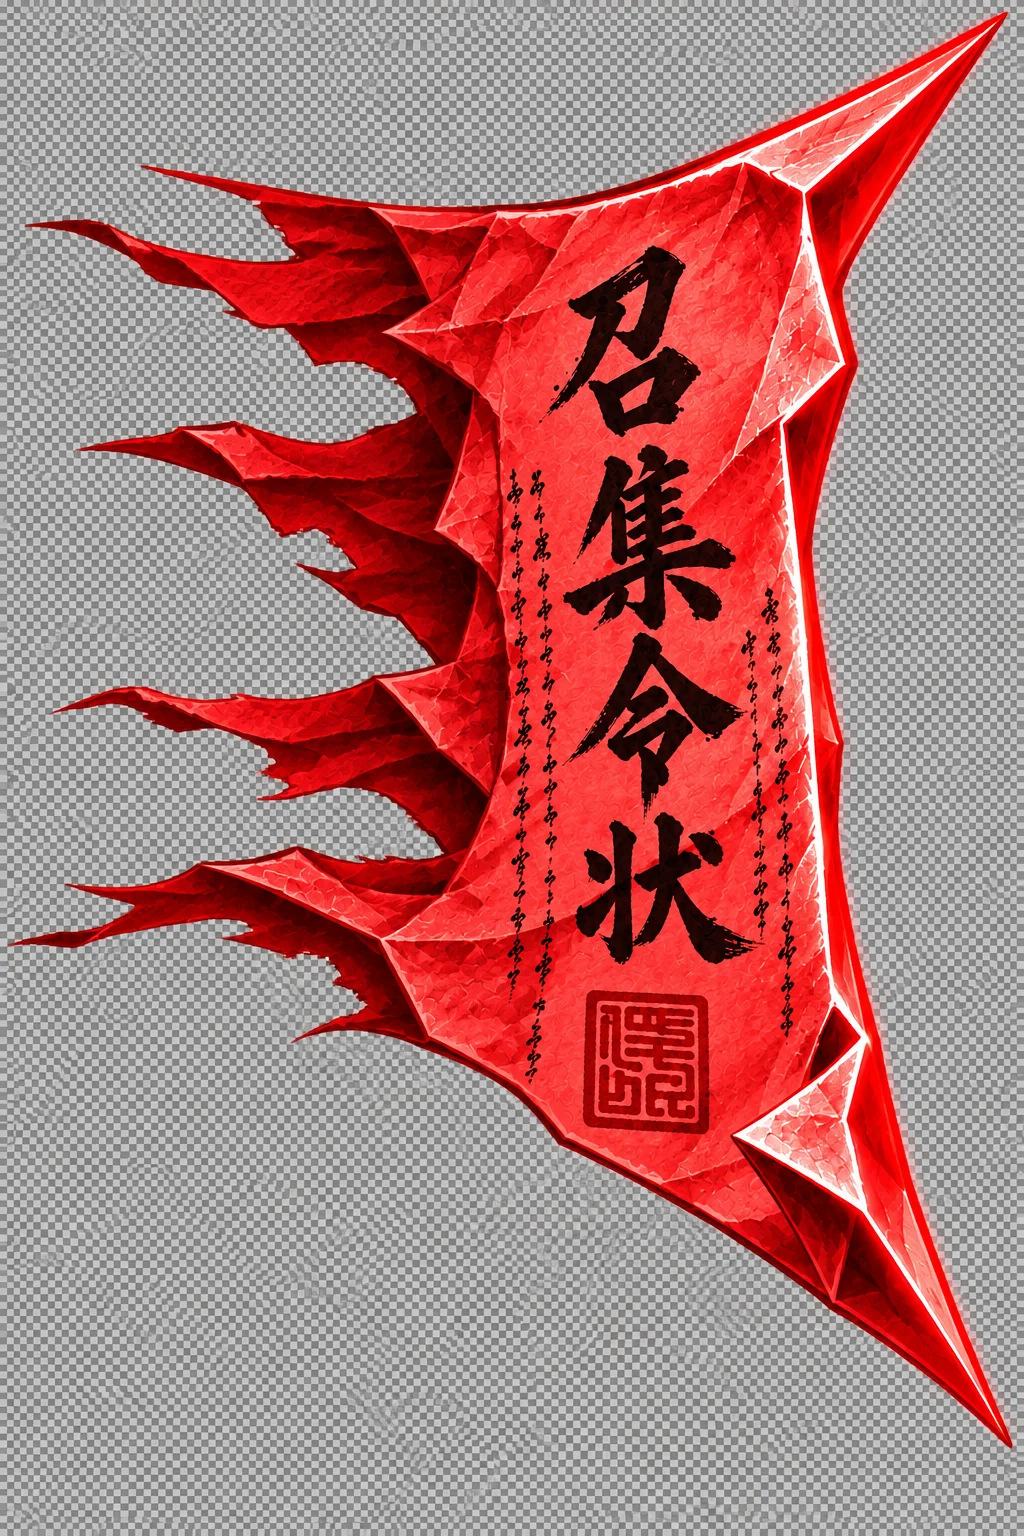
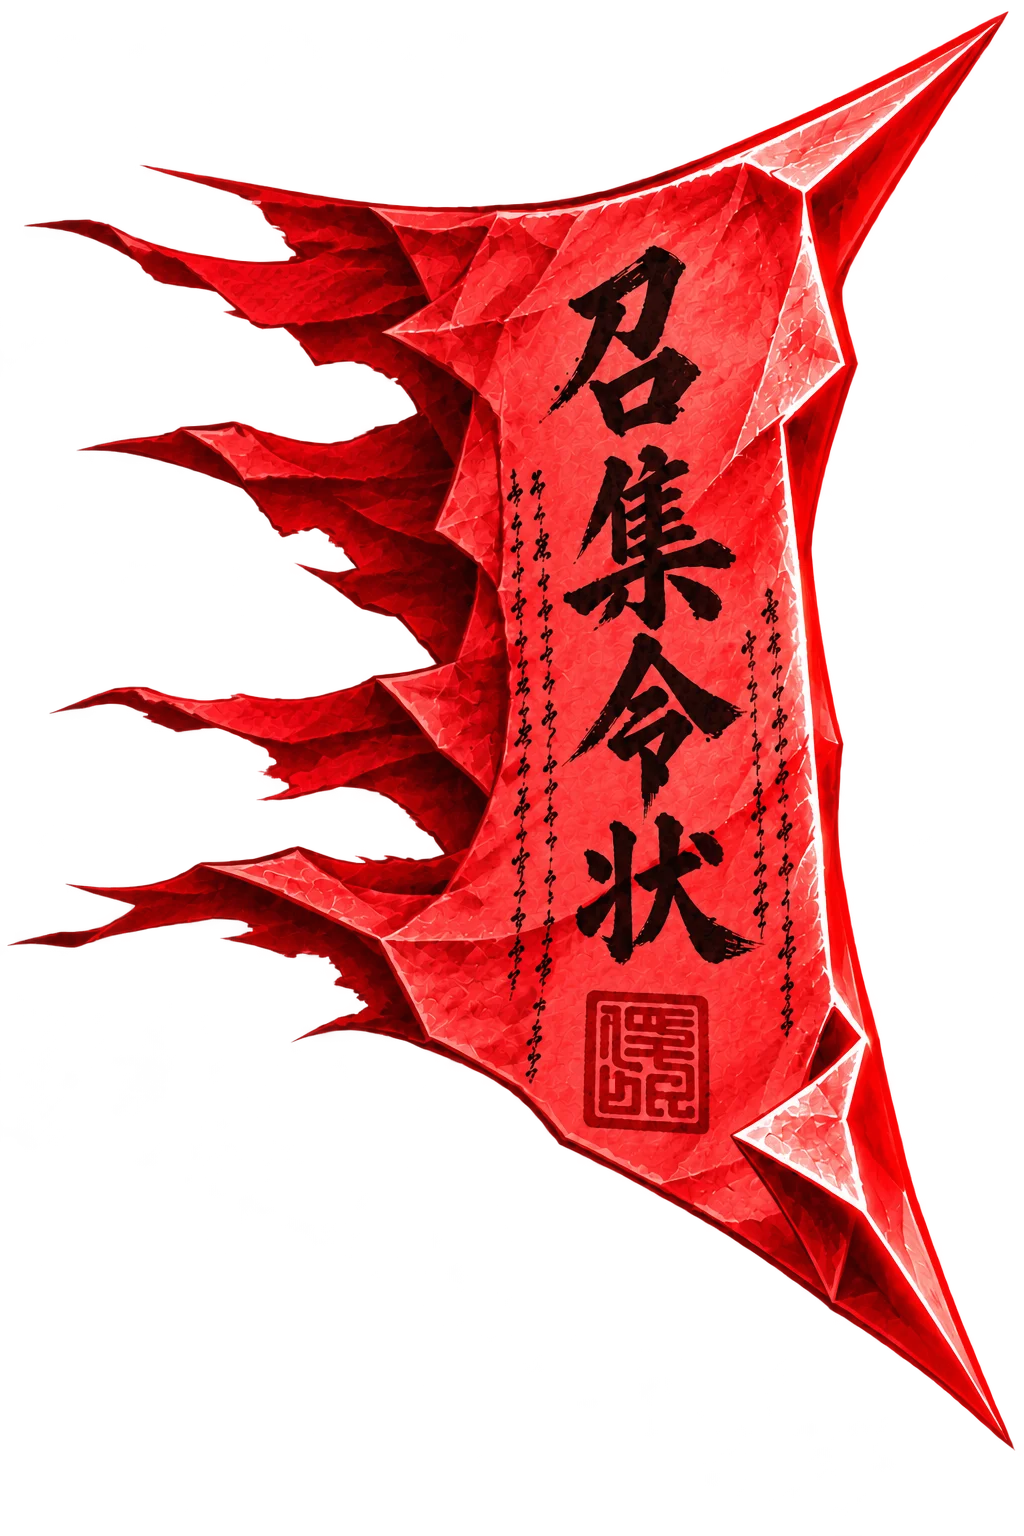
Fix red paper transparency and audit enemy sprites

diff --git a/verification/transparency-audit-20261022/audit-notes.md b/verification/transparency-audit-20261022/audit-notes.md
@@ -1,0 +1,7 @@
+# Enemy transparency audit — 2026-10-22
+
+The green-background contact sheet covers all 33 enemy image files modified on 2026-10-22 in `assets/images/enemies/`. Each has an alpha channel with transparent pixels; the sheet composites those pixels over bright green.
+
+- M208 was already the transparent onryo sprite in `HEAD`; no replacement was needed. Its dimensions are 1145×1374.
+- M210 had an opaque checker background. It was replaced with the transparent red-paper variant `exec-09301265-498f-44e9-b21b-83aac9bd4715.png` (1024×1536).
+- M033 has no canonical image file yet. An earlier transparent source `exec-32087d33-a421-4241-bbe6-3e5f4a6da286.png` remains, but it is an obsolete draft that appears to have an extra head. The latest two-head candidate `exec-04373558-828a-47da-8bea-50082977899b.png` has checkerboard baked in. The older image was not substituted because it does not match the accepted design.
